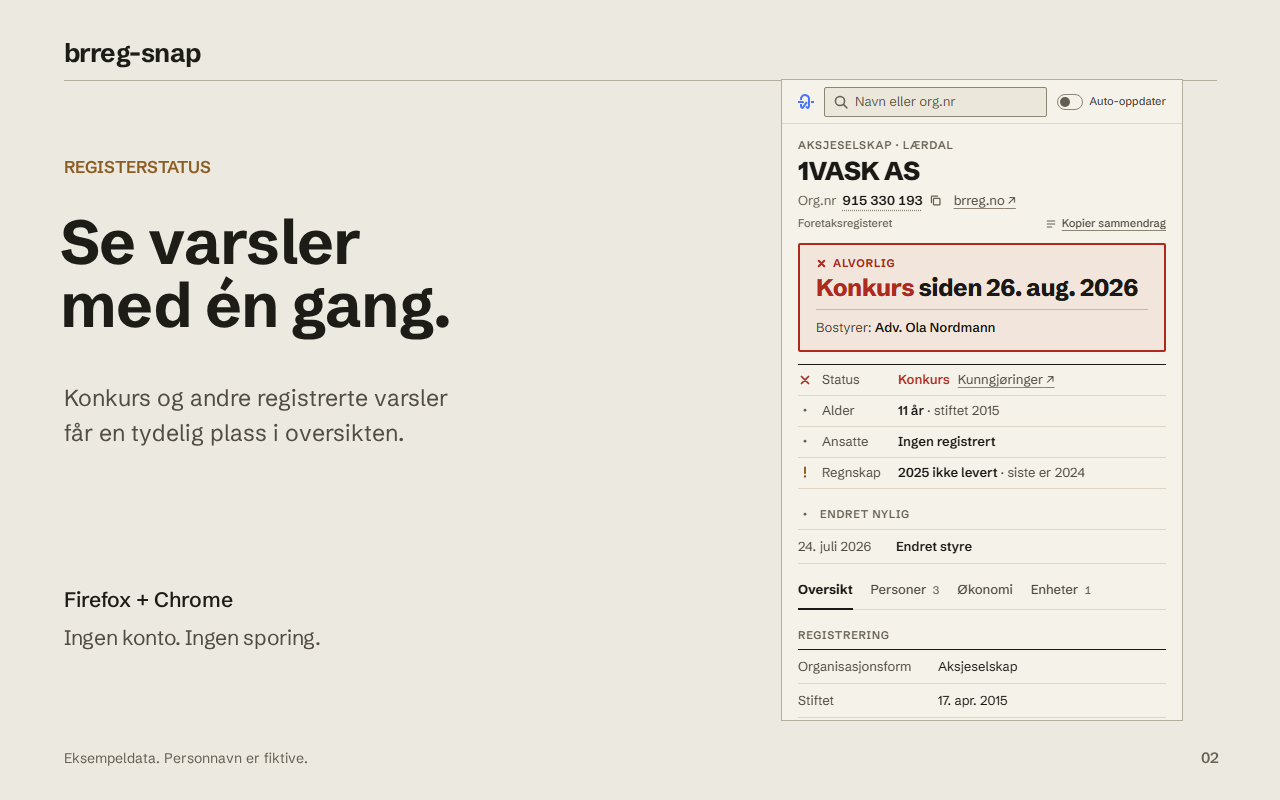
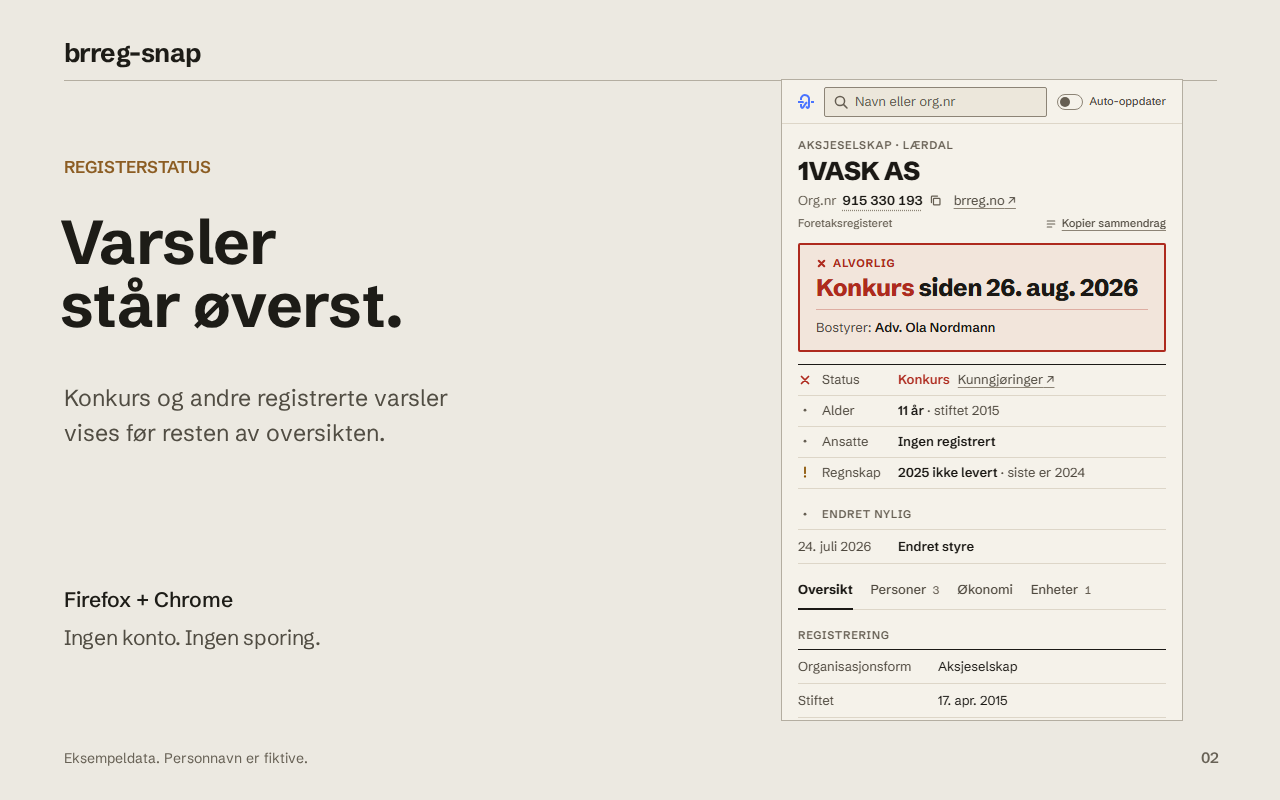
docs(screenshots): re-shoot the store set from 1.6.2 with plainer captions; add promo tiles
Captures from the smoke harness at 1.6.2 (no glow on the ok band, the
register grid). Captions: 01 «Slå opp bedriften med ett klikk.», 02
«Varsler står øverst.», 04 «Se hele konsernet.»; 03 and 05 unchanged.
New CWS promo tiles, small 440x280 and marquee 1400x560, with the
horizontal lockup. Light theme, as the maintainer picked.

Changed region(s): [[0.0312, 0.25, 0.3438, 0.4375], [0.0312, 0.5312, 0.3125, 0.5625], [0.625, 0.625, 0.75, 0.6875]]

diff --git a/docs/screenshots/README.md b/docs/screenshots/README.md
@@ -1,21 +1,29 @@
 # Store screenshots
 
-The current set is `01-lookup.png` through `05-search.png`.
-Upload all five in numerical order to AMO and CWS. Each is a 1280×800
-RGB PNG with Norwegian captions and the bundled Schibsted Grotesk font.
+The current set is `01-lookup.png` through `05-search.png`, plus two
+promo tiles.
+
+- Screenshots: upload all five in numerical order to AMO and CWS. Each
+  is a 1280×800 RGB PNG with Norwegian captions and the bundled
+  Schibsted Grotesk font, in the light theme.
+- `promo-small-440x280.png`: the CWS small promo tile (24-bit, no
+  alpha).
+- `promo-marquee-1400x560.png`: the CWS marquee promo tile (24-bit, no
+  alpha), shown only if the listing is featured.
 
 ## Source
 
-The UI captures come from a local `pnpm smoke` run on the re-recorded
-fixtures of 2026-10-15 («test(e2e): re-record fixtures from the live
-API»). The smoke runs the real built UI through
+The UI captures come from the smoke harness (`pnpm smoke`) at v1.6.2, on
+the fixtures re-recorded on 2026-10-15 («test(e2e): re-record fixtures
+from the live API»). The smoke runs the real built UI through
 `scripts/preview/serve.mjs` with the fixtures in `tests/e2e/fixtures`
 and writes its captures to `test-results/screenshots/`; it makes no
 live API request. The figures are real register data as of the
 recording; person names are fictional (`tests/e2e/fixtures/README.md`
-lists what the recorder replaces). The caption canvas is composed by a
-script kept outside the repo; it adds no UI elements and does not alter
-the captured text or data.
+lists what the recorder replaces). The caption canvas and the promo
+tiles are composed by scripts kept outside the repo; they add no UI
+elements and do not alter the captured text or data. The tiles use the
+horizontal lockup (`assets/brand/lockup-h.svg`).
 
 | Image | Capture under `test-results/screenshots/` | Crop in source pixels |
 |---|---|---|
@@ -24,12 +32,14 @@ the captured text or data.
 | 03 accounts | `panel-400-light/equinor-okonomi.png` | x=0, y=474, width=400, height=670 |
 | 04 group | `panel-400-light/equinor-enheter.png` | x=0, y=474, width=400, height=640 |
 | 05 search | `panel-400-light/search-view.png` | x=0, y=0, width=400, height=624 |
+| Marquee tile | `popup-light/popup-dnb.png` | x=0, y=0, width=380, height=509 |
 
 Captures keep their original pixel scale on the caption canvas, and
 each crop ends between two rows, never through one.
 The accounts and group crops start at the panel's compact company
 header, matching the view after scrolling; the accounts crop ends below
-the Økonomi trend's sentences. The footer explicitly labels the data as
+the Økonomi trend's sentences. The marquee's popup crop ends on the
+rule above the popup's footer. The footer explicitly labels the data as
 examples and the person names as fictional.
 
 To regenerate the underlying captures, run `pnpm smoke`. The preview

diff --git a/docs/cws-submission.md b/docs/cws-submission.md
@@ -32,6 +32,9 @@ dashboard after submission — get it right in the zip.
   square corners, full-bleed, showing the real UI. Upload the five `docs/screenshots/0*.png`
   files in numerical order. Fixture data and provenance:
   `docs/screenshots/README.md`.
+- **Promo tiles:** small 440×280 and marquee 1400×560, 24-bit PNG
+  without alpha: `docs/screenshots/promo-small-440x280.png` and
+  `docs/screenshots/promo-marquee-1400x560.png`.
 - **Description:** plain text. CWS does not render Markdown, so no
   `**bold**`, no backticks, no `[text](url)` links: they show up
   literally. Paste the Norwegian text below; the English one is for an
